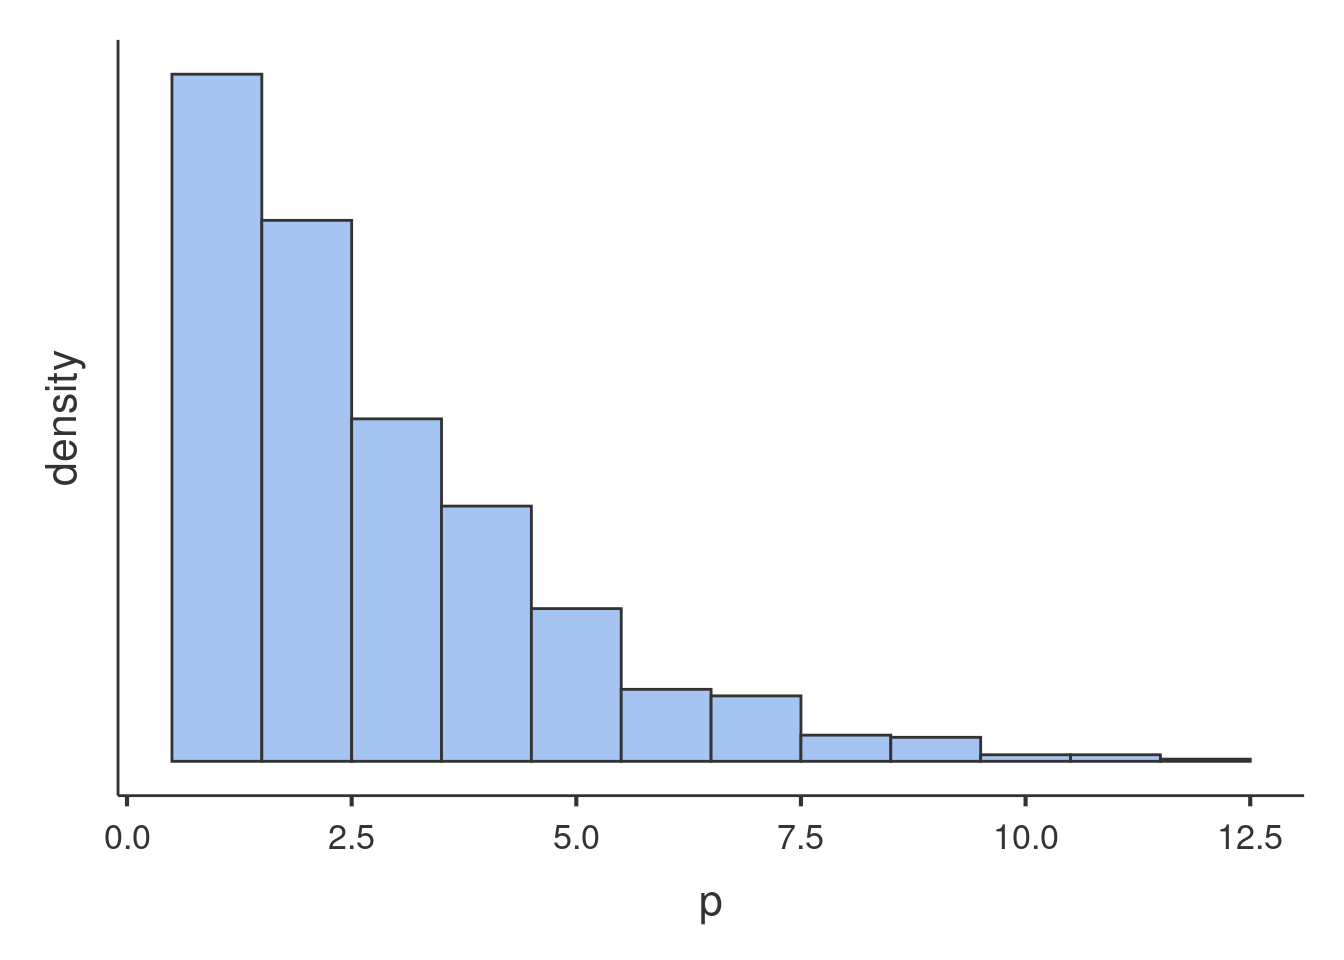
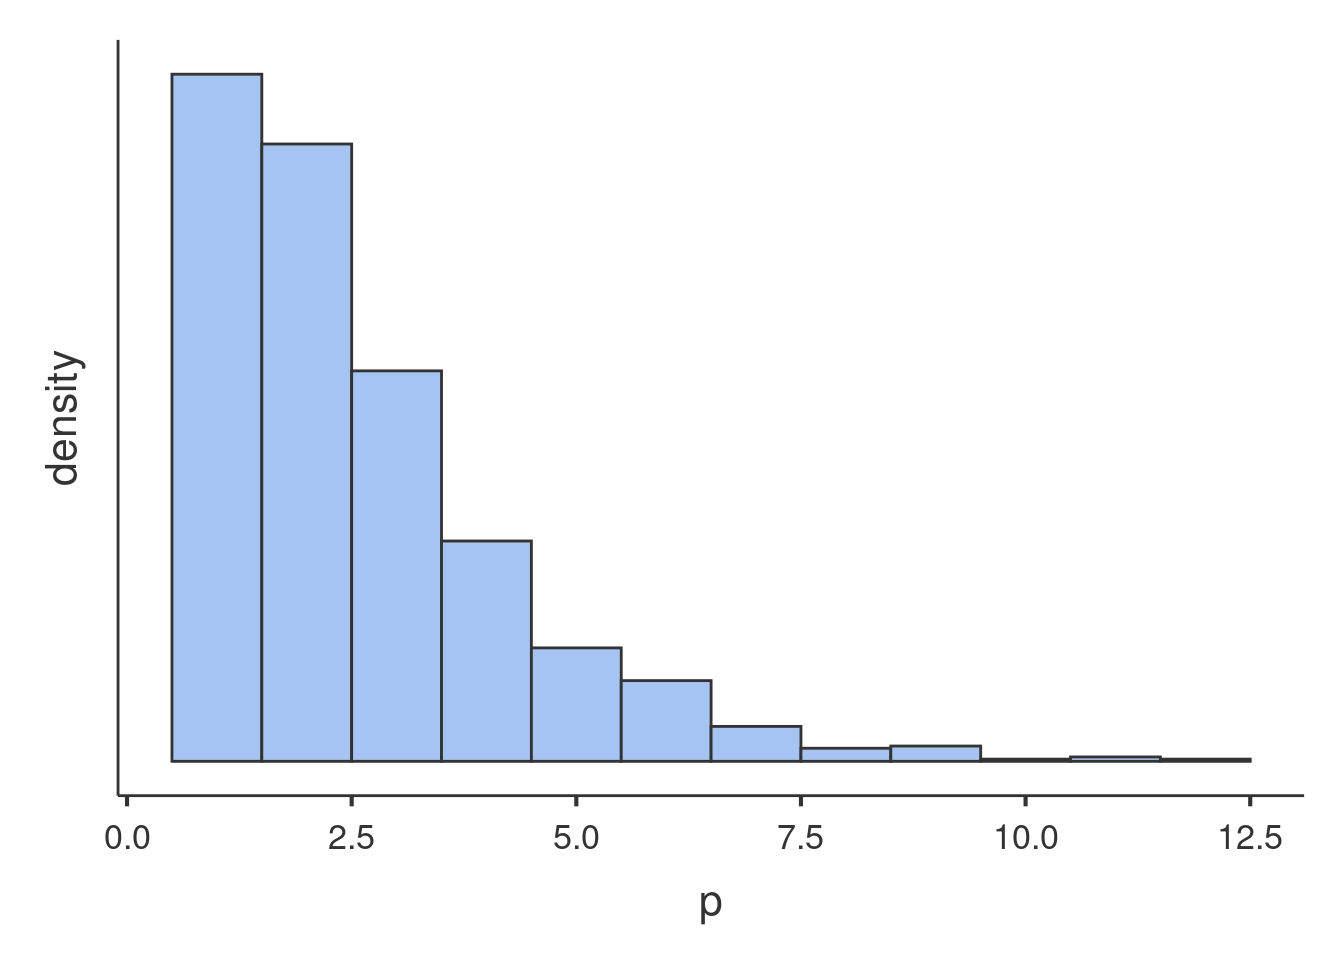
updates

diff --git a/docs/mixed_example4.html b/docs/mixed_example4.html
@@ -408,22 +408,21 @@ crossing, nesting </span></p>
 be around </span></p>
 <div id="intro" class="section level1">
 <h1>Intro</h1>
-<p>In multilevel designs there are at least two layers, or levels, in
-the sample: the within-cluster level and the between-cluster levels.
-This structure is simply declared in the models by specifying a cluster
-variable and at least one random coefficients that varies across
-clusters. In many application of the mixed model, however, there are
-more than 2 levels. In a classical educational program, one can have
-pupils (layer within), classes (layer 2) and schools (layer 3). An
-experiment may have several participants that are exposed to several
-stimuli, creating two clustering variables. Clusters variables groups
-may be nested or cross-classified (we can call them crossed for
-simplicity). Whether the cluster variables groups are nested or crossed
-make a substantial difference in the model structure, and on the
-parameters that one can estimate. Therefore, it is important to make
-clear how different structure of the data can be included in the mixed
-model. Here we see the possibilites in <span
-class="modulename">GAMLj</span>.</p>
+<p>In multilevel designs, there are at least two layers or levels in the
+sample: the within-cluster level and the between-cluster level. This
+structure is simply declared in the models by specifying a cluster
+variable and at least one random coefficient that varies across
+clusters. In many applications of the mixed model, however, there are
+more than two levels. In a classical educational program, one can have
+pupils (within layer), classes (second layer), and schools (third
+layer). An experiment may involve several participants exposed to
+multiple stimuli, creating two clustering variables. Cluster variable
+groups may be nested or cross-classified (referred to as crossed for
+simplicity). Whether the cluster variable groups are nested or crossed
+makes a substantial difference in the model structure and the parameters
+that one can estimate. Therefore, it is important to clarify how
+different data structures can be included in the mixed model. Here, we
+explore the possibilities in <span class="modulename">GAMLj</span></p>
 <p>In terms of logic of defining the mixed model <span
 class="modulename">GAMLj</span> follows <span class="citation">Bates et
 al. (<a href="#ref-lme4">2015</a>)</span> R package implementation, so
@@ -439,7 +438,7 @@ All participants see all stimuli. An example can be found
 <a href="mixed_example3.html">Mixed Models: Subjects by Stimuli random
 effects</a>, using the <a
 href="https://github.com/gamlj/gamlj.github.io/blob/master/data/subjects_by_stimuli.csv">subjects_by_stimuli</a>
-dataset. Here we have 50 participants measured in two conditions using
+dataset. There we have 50 participants measured in two conditions using
 30 stimuli. The first cells of a contingency table <code>subj</code>(in
 columns) by <code>stimulus</code> is shown here.</p>
 <p><img src="examples/mixed4/data1_freq.png" width="531" /></p>
@@ -448,53 +447,53 @@ columns) by <code>stimulus</code> is shown here.</p>
 layer). This means that each measurement (each row) belongs to one
 combination of <code>subj</code> and <code>stimulus</code>, that is is
 measured for one particular participant and one particular stimulus. The
-classifications are <strong>orthogonal</strong>, meaning that they are
+classifications are <em>orthogonal</em>, meaning that they are
 independent one each other. In the experimental terminology , they
 create a balanced 50 X 30 design.</p>
 <p>To understand the structure of the model estimable in these designs,
 we can focus on the random intercepts (the same applies to slopes, but
-the latter depends on the specific design at hand). What random
-intercepts can we estimate in this kind of designs? The random
-intercepts varying across participants, each intercept corresponding to
-the average score of the participant averaged across the 30 stimuli. The
-random intercepts varying across stimuli, each intercept corresponding
-to the average score associated with a stimulus, averaged across the 50
+the latter depend on the specific design at hand). What random
+intercepts can we estimate in this kind of design? The random intercepts
+varying across participants, each intercept corresponding to the average
+score of the participant averaged across the 30 stimuli. The random
+intercepts varying across stimuli, each intercept corresponding to the
+average score associated with a stimulus, averaged across the 50
 participants. Thus, the number of intercepts across participant will be
 N, where N is the number of participants, and the number of intercepts
 across stimuli would be K, where K is the number of stimuli.</p>
 <p>If within each combination of <code>subj</code> and
-<code>stimuli</code> there are several measurements, one can also
+<code>stimulus</code> there are several measurements, one can also
 estimate the intercepts vary across <code>subj</code> by
-<code>stimuli</code> cells. If <code>subj</code> and
-<code>stimuli</code> were factors and not clusters, one could say that
+<code>stimulus</code> cells. If <code>subj</code> and
+<code>stimulus</code> were factors and not clusters, one could say that
 the random intercepts can represent the variance of the main effect of
-<code>subj</code>, the main effect of <code>stimuli</code> and (if there
-are enough data), their interaction. For this variance, the number of
-intercepts are N X K.</p>
+<code>subj</code>, the main effect of <code>stimulus</code> and (if
+there are enough data), their interaction. For this variance, the number
+of intercepts are N X K.</p>
 <p>In terms of coding the variable, one simply needs to assign one
 unique value to each participants and one unique value to each
 stimulus.</p>
 <p><img src="examples/mixed3/data1.png" width="424" /></p>
-<p>Then one specify the random structure as for any other mixed
+<p>Then one specifies the random structure as for any other mixed
 model:</p>
 <p><img src="examples/mixed4/data1_random.png" width="561" /></p>
-<p>The results will show the correct variance in the tables</p>
+<p>The results will show the correct variances in the tables</p>
 <p><img src="examples/mixed4/output1_random.png" width="427" /></p>
 <p>See also this very well written answer on
-<a href='https://stats.stackexchange.com/questions/228800/crossed-vs-nested-random-effects-how-do-they-differ-and-how-are-they-specified' target='_blank'>stackexchange</a></p>
+<a href='https://stats.stackexchange.com/questions/228800/crossed-vs-nested-random-effects-how-do-they-differ-and-how-are-they-specified' target='_blank'>stackexchange</a>.</p>
 </div>
 <div id="structure-by-data-vs-by-formula" class="section level1">
 <h1>Structure by data vs by formula</h1>
-<p>What is I want to insert also a random intercept that varies across
+<p>What if I want to insert also a random intercept that varies across
 the cells representing the combinations of <code>subj</code> and
-<code>stimuli</code> (notice that in this dataset it does not make much
+<code>stimulus</code> (notice that in this dataset it does not make much
 sense because there are only two scores in each <code>subj</code> by
-<code>stimuli</code> combination, but we show this anyway as an
+<code>stimulus</code> combination, but we show this anyway as an
 example).</p>
 <p>There are two ways in <span class="modulename">GAMLj</span> to obtain
-the model structure we desire. Going by data or going by formula: they
-give exactly the same results, so which way to go depends on which way
-is more convenient from a practical point of view.</p>
+the model structure we desire. Going by data or going by formula: The
+two methods give exactly the same results, so which way to go depends on
+which way is more convenient from a practical point of view.</p>
 <div id="by-data" class="section level2">
 <h2>By data</h2>
 <p>Since we want to estimate an intercept for each combination of
@@ -504,10 +503,10 @@ this by simply using the <code>compute</code> command in
 <code>Data</code> tab.</p>
 <p><img src="examples/mixed4/input1_compute.png" width="481" /></p>
 <p>and specify the value of the new variable as a combination of the
-values of <code>subj</code> and <code>stimuli</code></p>
+values of <code>subj</code> and <code>stimulus</code></p>
 <p><img src="examples/mixed4/input1_compute2.png" width="525" /></p>
 <p>Then we can add <code>subj_stimuli</code> as a clustering variable of
-our model, and ask for the random intercept across it.</p>
+our model, and ask for the random intercepts across it.</p>
 <p><img src="examples/mixed4/data1_random2.png" width="576" /></p>
 <p>The results will now show an additional variance, which we know will
 capture the variability due to the combinations of the clustering
@@ -522,7 +521,7 @@ general idea is working)</p>
 <p>Some user may find this method tiring. For those, the module can
 create the combination variable automatically. When more than one
 cluster variables are defined, the option `<span class="option">Crossing
-by formula</span> options appears. By selecting it, we ask the module to
+by formula</span> option appears. By selecting it, we ask the module to
 list all possible crossing between clustering variables, so we can
 select the one we need</p>
 <p><img src="examples/mixed4/input1_options.png" width="560" /></p>
@@ -542,12 +541,15 @@ experimental example, stimuli are nested within participants if each
 participant is exposed to a different set of stimuli as compared with
 the other participants.</p>
 <p>An example can be found in the <a
-href="https://github.com/gamlj/gamlj.github.io/blob/master/data/subjects_on_stimuli.csv">subjects_by_stimuli</a></p>
+href="https://github.com/gamlj/gamlj.github.io/blob/master/data/subjects_on_stimuli.csv">subjects_on_stimuli</a>
+dataset.</p>
 <p>Here each participant gets their own set of stimuli, so the stimulus
 1 of participant 1 is different from stimulus 1 of participant 2. This
 is clear in the contingency table (showing only 3 participants in
 columns and 3 stimuli in rows), in which every stimulus appears only in
-combination with one participant.</p>
+combination with one participant. There are 20 participants, 600
+stimuli, 30 per participant, and each stimulus is measured over 10
+trials, for a total of 6000 observations.</p>
 <p><img src="examples/mixed4/data2_freq.png" width="288" /></p>
 <p>To understand the structure of the model estimable in these designs,
 we can focus on the random intercepts (the same applies to slopes, but
@@ -583,7 +585,7 @@ intercepts, and thus the correct variances. We simply list the
 clustering variables and their random coefficients.</p>
 <p><img src="examples/mixed4/input2_random1.png" width="573" />
 <img src="examples/mixed4/output2_random1.png" width="422" /></p>
-<p>Please notice the numerosity of the clusters. There are 600
+<p>Please notice the numerosity of the clusters. There are 6000
 observations, 600 stimuli and 20 participants.</p>
 </div>
 <div id="by-formula-1" class="section level2">
@@ -610,18 +612,19 @@ stimulus. But they are not the same, so the model is wrong.</p>
 explicitly identify different stimuli (nested groups) across participant
 (parent groups). So using a variable like <code>uni_stimulus</code> as
 we did in the <em>by data</em> approach. However, <span
-class="modulename">GAMLj</span> offers the options to do that
+class="modulename">GAMLj</span> offers the option to do that
 automatically. We can select <span class="option">Nesting by
 formula</span> and select <code>participant/within_stimulus</code>. This
-notation, which is the R notation for nested random coefficients, will
-automaticaly identifies as different stimuli with the same value in
-<code>within_stimulus</code> (the nested clustering variable) but with
-different value in <code>participant</code> (the parent clustering
+notation, which is the R notation for nested random coefficients <span
+class="citation">(<a href="#ref-lme4">Bates et al. 2015</a>)</span>,
+will automatically identifies as different stimuli with the same value
+in <code>within_stimulus</code> (the nested clustering variable) but
+with different value in <code>participant</code> (the parent clustering
 variable).</p>
 <p><img src="examples/mixed4/input2_random3.png" width="575" />
 <img src="examples/mixed4/output2_random3.png" width="484" /></p>
 <p>The numerosity is now correct and the results are the same as the
-ones obtained with the __by data_ approach.</p>
+ones obtained with the <em>by data</em> approach.</p>
 </div>
 </div>
 <div id="differences-in-notation" class="section level1">
@@ -629,12 +632,12 @@ ones obtained with the __by data_ approach.</p>
 <p>Defining the structure of the clustering groups by data assures
 control over the model being estimated and correct results. The rule is
 simple: each clustering variable or variable representing combination of
-clustering variable should have its own randomintercept (or possibly
+clustering variable should have its own random intercept (or possibly
 random slopes).</p>
 <p>When variables are not coded in order to convey the correct structure
 of the data, one can use the <span class="option">Nesting by
 formula</span> and <span class="option">Nesting by formula</span>. <span
-class="option">Nesting by formula</span> creates a clustering variable
+class="option">Crossing by formula</span> creates a clustering variable
 that combines the parent and the nested values into an unique code, and
 then estimates the random coefficients for the parent variable and for
 the combination of parent and nested. <span class="option">Crossing by

diff --git a/docs/glmmixed_example2.html b/docs/glmmixed_example2.html
@@ -424,8 +424,8 @@ Generalized Linear Model with Poisson distribition may work. However, we
 can check wheather our distribution is in line with the features of the
 Poisson dist by checking its mean and variance. The Poisson distribution
 has variance equal to the mean, in fact the simulated distribution in
-the histogram has <span class="math inline">\(\bar{x}=1.729\)</span> and
-<span class="math inline">\(s^2=1.739\)</span>. The <code>art</code>
+the histogram has <span class="math inline">\(\bar{x}=1.737\)</span> and
+<span class="math inline">\(s^2=1.665\)</span>. The <code>art</code>
 variable distribution has <span
 class="math inline">\(\bar{x}=1.693\)</span> and <span
 class="math inline">\(s^2=3.71\)</span>, with a ratio variance/mean of

diff --git a/docs/release_notes.html b/docs/release_notes.html
@@ -376,8 +376,17 @@ div.tocify {
 
 
 <p>#Releases and changes</p>
-<div id="version.3.0.7-current" class="section level1">
-<h1>Version.3.0.7 (Current)</h1>
+<div id="version.3.0.8-current" class="section level1">
+<h1>Version.3.0.8 (Current)</h1>
+<ul>
+<li><p>nesting and crossing by formula in linear mixed model</p></li>
+<li><p>Better optimizer for glmer</p></li>
+<li><p>Identify by row number extreme cases in assumptions check
+plots</p></li>
+</ul>
+</div>
+<div id="version.3.0.7" class="section level1">
+<h1>Version.3.0.7</h1>
 <ul>
 <li><p>more info for residuals covariance matrix</p></li>
 <li><p>Assumptions plots for autocorrelated mixed models</p></li>

diff --git a/docs/style.css b/docs/style.css
@@ -158,7 +158,6 @@ td.optionname {
 }
 
 span.option {
-    white-space: pre;
     background-color: rgba(0, 0, 0, 0.04);
     padding: 2px 4px;
     font-size: 90%;

diff --git a/docssource/style.css b/docssource/style.css
@@ -158,7 +158,6 @@ td.optionname {
 }
 
 span.option {
-    white-space: pre;
     background-color: rgba(0, 0, 0, 0.04);
     padding: 2px 4px;
     font-size: 90%;
